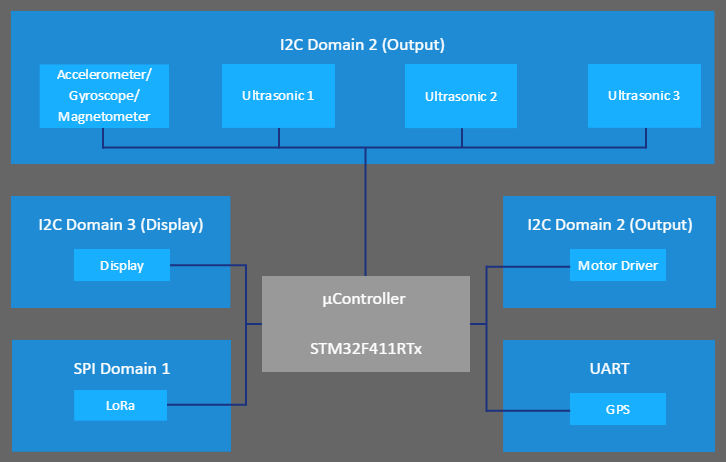
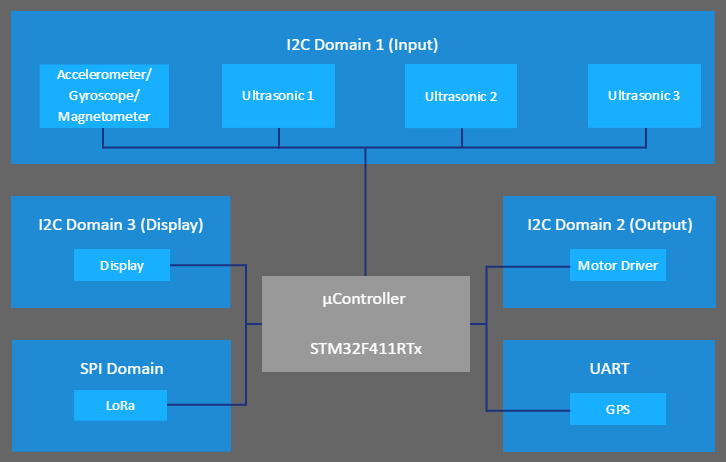
added domains to the hardware documentation

Changed region(s): [[0.3939, 0.0606, 0.6364, 0.1212], [0.0909, 0.7879, 0.2424, 0.8182]]

diff --git a/docs/README.md b/docs/README.md
@@ -58,3 +58,23 @@ STM32CubeMX                  | TrueStudio-Plugin: C code generator and configura
 ## State Diagrams
 
 ## Class Diagrams
+
+## Hardware - eLSA Robot
+
+This section shows the used hardware and their configurations in detail.
+
+### Domains
+
+The hardware is split into 5 domains, while the microcontroller holds a special place as the central hardware component.
+It shows the logical relations and their interfaces to the microcontroller. It helps to have an overview of all the used
+components in general.
+
+![eLSA Hardware Peripherals](hardware/peripherals/elsa_peripherals.png)
+
+Domain                 | Function
+-----------------------|-----------
+I2C Domain 1 (Input)   | simple I2C devices, simple inputs
+I2C Domain 2 (Output)  | simple I2C devices, simple outputs
+I2C Domain 3 (Display) | i2c devices for display specific output
+SPI Domain             | spi devices with more complex functions (e.g. protocols)
+UART Domain            | uart devices with more complex functions (e.g. protocols)
